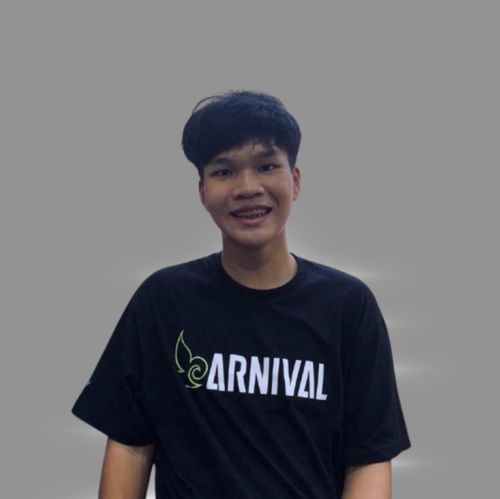
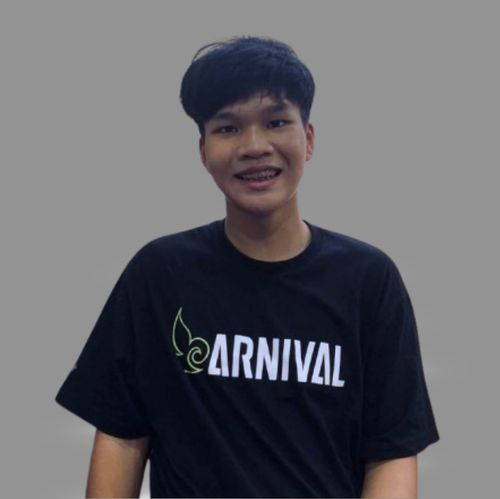
เพิ่มรูป

Changed region(s): [[0.09, 0.0601, 0.9, 1.0], [0.33, 0.6313, 0.69, 0.8116]]

diff --git a/public/index.html b/public/index.html
@@ -2,42 +2,24 @@
 <html lang="en">
   <head>
     <meta charset="utf-8" />
-    <link rel="icon" href="%PUBLIC_URL%/b-symbols.png" />
+    <link rel="icon" href="%PUBLIC_URL%/assets/b-symbol.png" />
     <meta name="viewport" content="width=device-width, initial-scale=1" />
     <meta name="theme-color" content="#000000" />
-    <meta
-      name="description"
-      content="Web site created using create-react-app"
-    />
-    <link rel="apple-touch-icon" href="%PUBLIC_URL%/b-symbols.png" />
-    <!--
-      manifest.json provides metadata used when your web app is installed on a
-      user's mobile device or desktop. See https://developers.google.com/web/fundamentals/web-app-manifest/
-    -->
-    <link rel="manifest" href="%PUBLIC_URL%/manifest.json" />
-    <!--
-      Notice the use of %PUBLIC_URL% in the tags above.
-      It will be replaced with the URL of the `public` folder during the build.
-      Only files inside the `public` folder can be referenced from the HTML.
+    <meta name="description" content="Web site created using create-react-app" />
 
-      Unlike "/favicon.ico" or "favicon.ico", "%PUBLIC_URL%/favicon.ico" will
-      work correctly both with client-side routing and a non-root public URL.
-      Learn how to configure a non-root public URL by running `npm run build`.
-    -->
-    <title>Baby Name</title>
+    <!-- Meta tags สำหรับการแชร์ -->
+    <meta property="og:title" content="Baby Name" />
+    <meta property="og:description" content="ช่วยให้คุณเลือกชื่อที่ดีที่สุดสำหรับลูก" />
+    <link rel="apple-touch-icon" href="%PUBLIC_URL%/assets/b-symbol.png" />
+    <meta property="og:image" content="%PUBLIC_URL%/assets/b-logo.png" />
+    <meta property="og:url" content="https://babyname-app.vercel.app/" />
+    <meta name="twitter:card" content="summary_large_image" />
+
+    <link rel="manifest" href="%PUBLIC_URL%/manifest.json" />
+    <title>Baby Name 👶</title>
   </head>
   <body>
     <noscript>You need to enable JavaScript to run this app.</noscript>
     <div id="root"></div>
-    <!--
-      This HTML file is a template.
-      If you open it directly in the browser, you will see an empty page.
-
-      You can add webfonts, meta tags, or analytics to this file.
-      The build step will place the bundled scripts into the <body> tag.
-
-      To begin the development, run `npm start` or `yarn start`.
-      To create a production bundle, use `npm run build` or `yarn build`.
-    -->
   </body>
 </html>

diff --git a/src/components/TeamSection.js b/src/components/TeamSection.js
@@ -1,6 +1,10 @@
 import React, { useEffect } from 'react';
 import TeamMember from './TeamMember';
 import Member1 from '../images/member1.jpg';
+import Member3 from '../images/member3.jpg';
+import Member4 from '../images/member4.jpg';
+import Member6 from '../images/member6.jpg';
+
 
 const TeamSection = () => {
   const teamMembers = [
@@ -27,7 +31,7 @@ const TeamSection = () => {
     {
       name: "Poonyapat Wongsatit",
       role: "Product Designer",
-      image: Member1,
+      image: Member3,
       social: {
         facebook: "https://facebook.com",
         twitter: "https://twitter.com",
@@ -37,10 +41,10 @@ const TeamSection = () => {
     {
       name: "Akethanick  Rungsawang",
       role: "Back-End Developer\nDatabase Developer",
-      image: Member1,
+      image: Member4,
       social: {
+        github: "https://github.com/aekthanick",
         facebook: "https://facebook.com",
-        twitter: "https://twitter.com",
         instagram: "https://instagram.com"
       }
     },
@@ -57,11 +61,11 @@ const TeamSection = () => {
     {
       name: "Thanakorn Thitpaphong",
       role: "Front-End Developer",
-      image: Member1,
+      image: Member6,
       social: {
+        github: "https://github.com/thanakorn768",
         facebook: "https://facebook.com",
-        twitter: "https://twitter.com",
-        instagram: "https://instagram.com"
+        instagram: "https://www.instagram.com/tnk_mart/"
       }
     }
   ];
